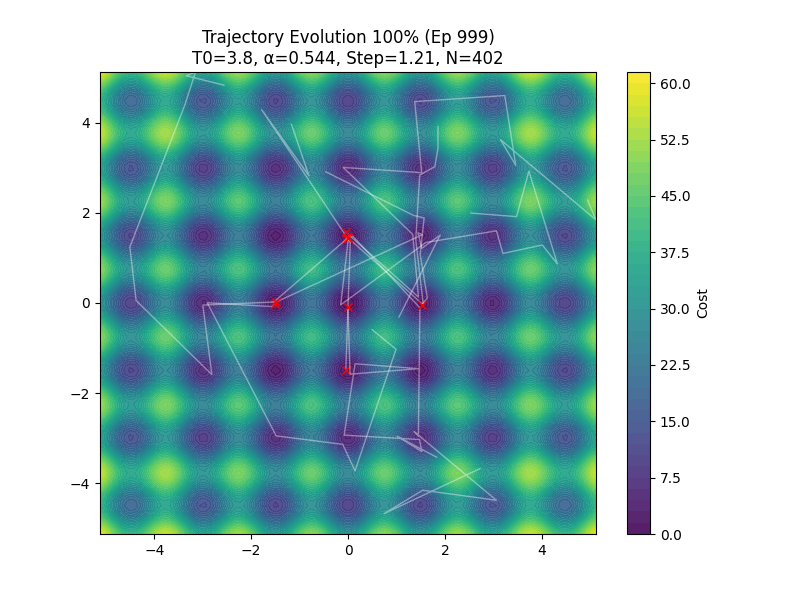
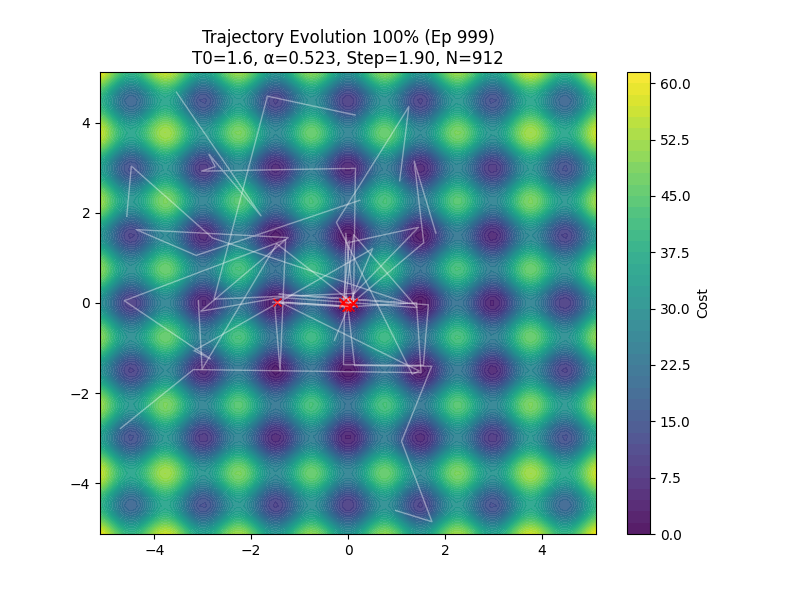
push results

diff --git a/run_experiment.py b/run_experiment.py
@@ -14,7 +14,7 @@ def train_tuner():
     agent = PPOAgent(state_dim, action_dim, lr=3e-4, gamma=0.0, eps_clip=0.2, k_epochs=4)
     
     max_episodes = 1000 # Enough for convergence demo
-    update_timestep = 2 # Update every 20 episodes (batch size 20)
+    update_timestep = 10 # Update every 20 episodes (batch size 20)
     
     memory = {'states': [], 'actions': [], 'log_probs': [], 'rewards': [], 'is_terminals': []}
     

diff --git a/tuning_env.py b/tuning_env.py
@@ -76,7 +76,7 @@ class TuningEnv:
             init_temp, cooling_rate, step_size, num_steps, self.bounds, seed=run_seed, num_runs=100
         )
 
-        avg_reward = avg_reward - 1*(num_steps / 1000)
+        avg_reward = avg_reward
 
         self.last_trajectory = last_trajectory
         
